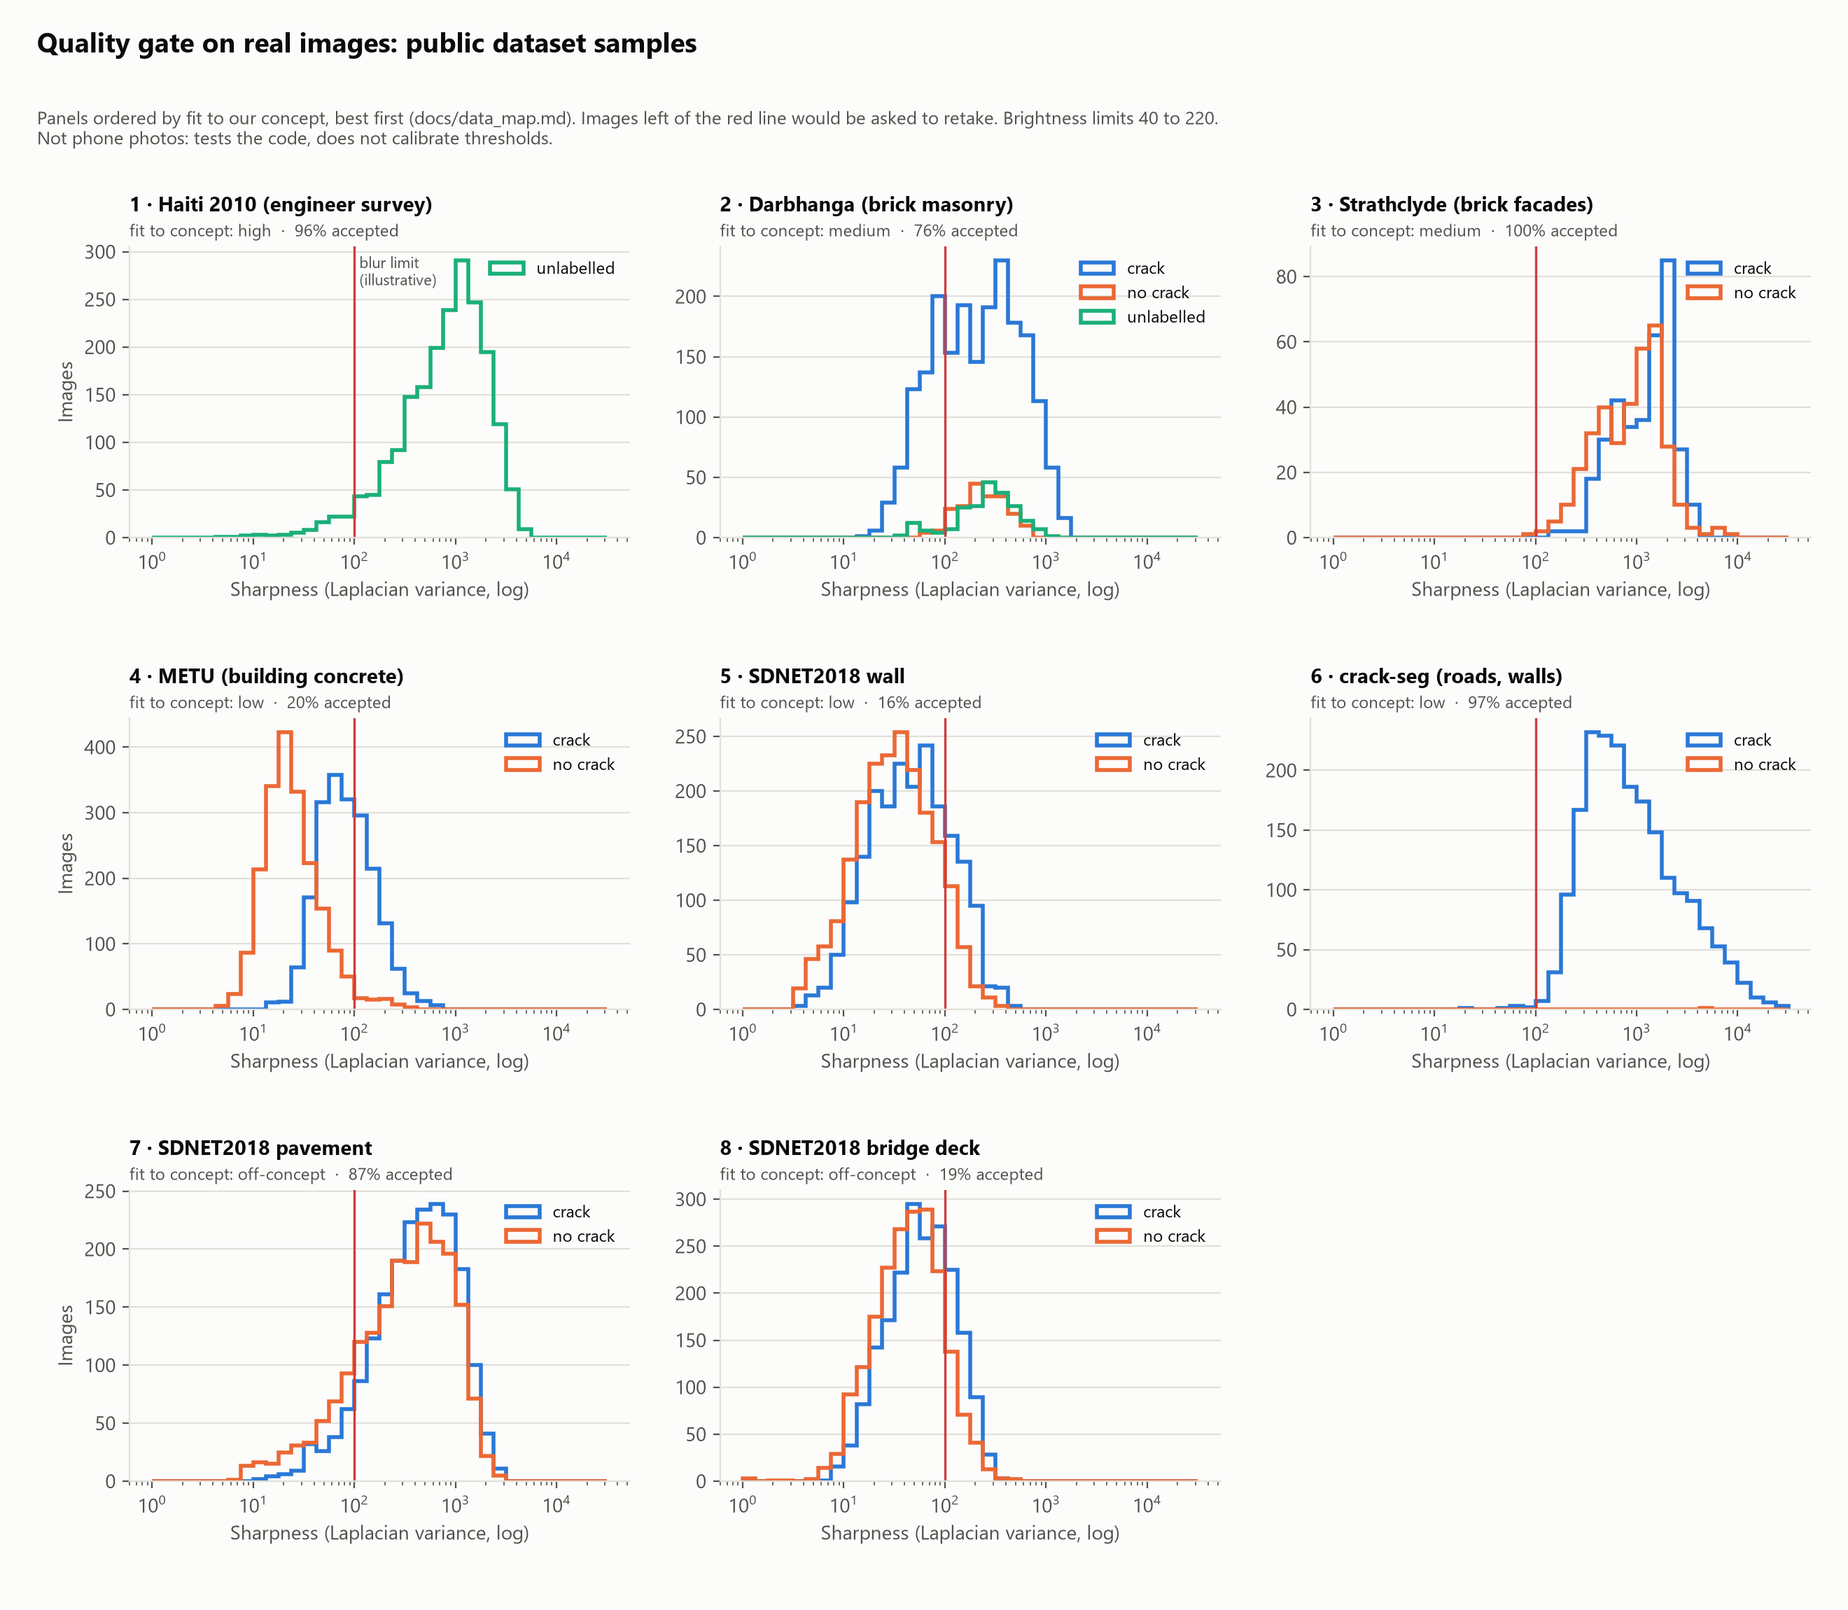
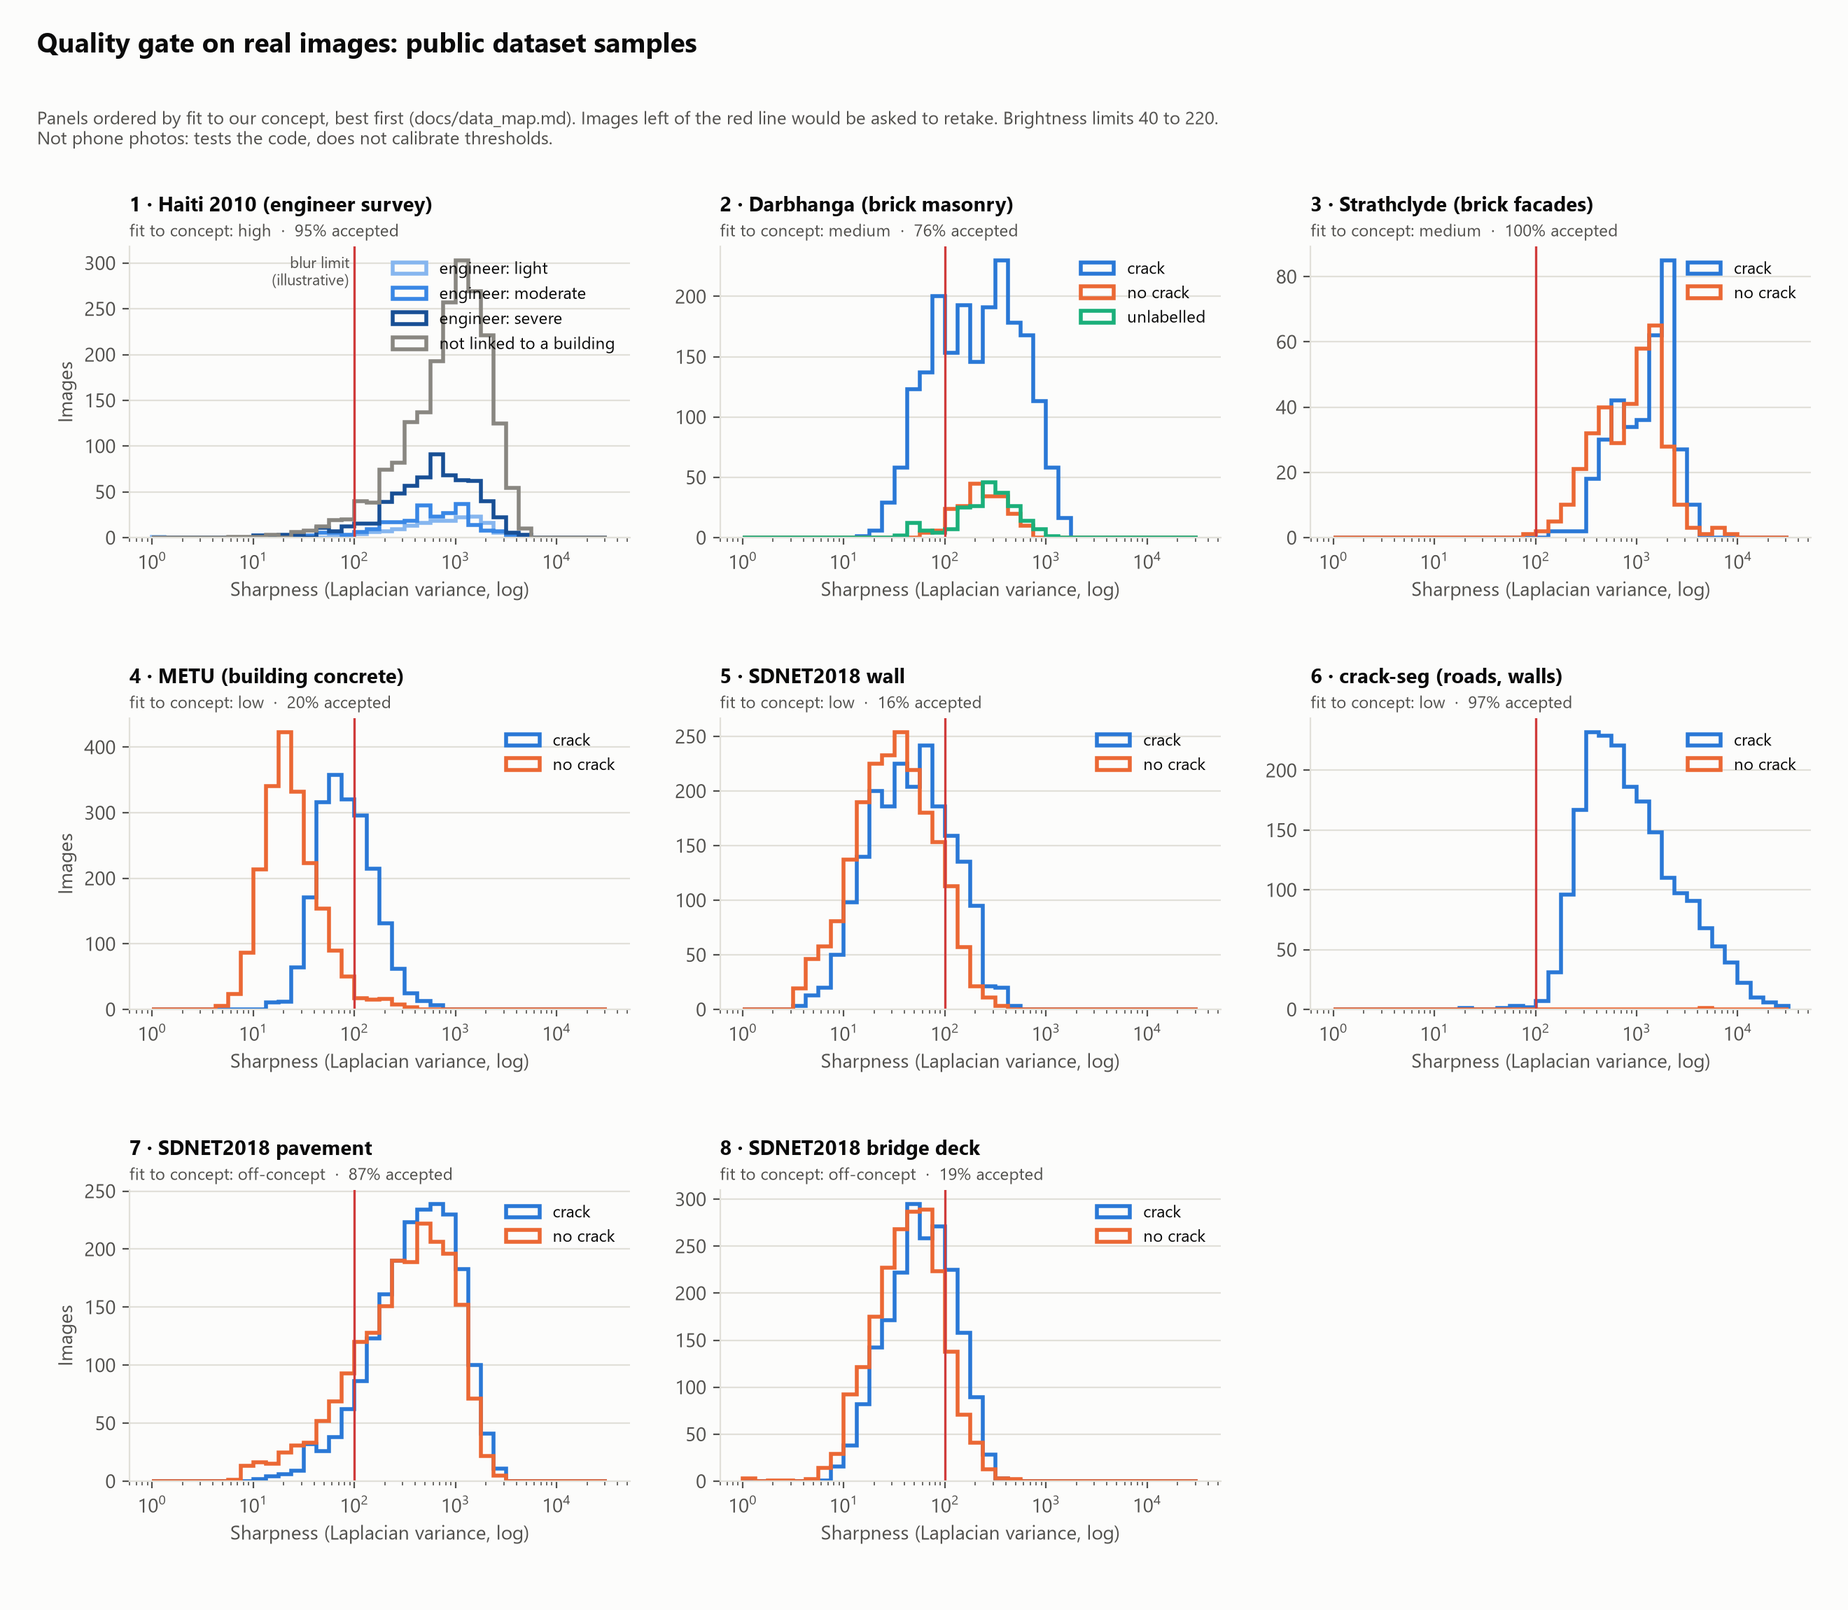
Haiti photos labelled with their building's engineer rating
- Each Haiti photo in a building folder takes that building's rating
  (worse of RC and masonry damage); camera dumps are "not linked"
- Gate accepts light, moderate and severe at the same rate (92 to 94%):
  it does not filter out serious cases
- Unreadable files are recorded as a retake instead of crashing (test)
- Figure 08 legend and label no longer overlap; reports updated

Changed region(s): [[0.1553, 0.1543, 0.3417, 0.3396], [0.0311, 0.1543, 0.0621, 0.247]]

diff --git a/src/experiments/real_data_quality.py b/src/experiments/real_data_quality.py
@@ -5,6 +5,8 @@ Spec: spec/features/quality_gate.md. Usage, from the repository root:
 Recognised layouts (a root with no images is skipped):
 - SDNET2018: <surface>/<C|U><surface letter>/*.jpg (e.g. D/CD, W/UW)
 - METU: Positive/*.jpg (crack) and Negative/*.jpg (no crack)
+- Haiti 2010 database: Photos/<building>/...; each photo takes its building's engineer rating from the
+  database CSV (worse of RC and masonry-wall damage); photos outside a building folder are "not linked"
 - YOLO style (Ultralytics crack-seg, Darbhanga): an "images" folder with a sibling "labels" folder.
   A non-empty label file means crack, a missing or empty one no crack; no labels folder means unlabelled.
 Writes per-image results to data/processed/ (ignored) and a histogram to figures/.
@@ -13,6 +15,7 @@ Writes per-image results to data/processed/ (ignored) and a histogram to figures
 import argparse
 import csv
 import random
+import re
 import sys
 from collections import defaultdict
 from pathlib import Path
@@ -47,10 +50,38 @@ def yolo_label(path: Path) -> str | None:
     return "crack" if label.is_file() and label.read_text().strip() else "no crack"
 
 
+HAITI_CSV = "NEES_Database__The_Haiti_Earthquake_Database.csv"
+DAMAGE_ORDER = ["light", "moderate", "severe"]
+
+
+def _building_key(name: str) -> str:
+    return re.sub(r"\(.*?\)|[^A-Z0-9]", "", name.upper())
+
+
+def haiti_ratings(root: Path) -> dict[str, str]:
+    """Building key -> worse of RC and masonry-wall damage, from the Haiti database CSV."""
+    ratings = {}
+    with (root / HAITI_CSV).open(encoding="latin-1", newline="") as f:
+        for row in csv.DictReader(f):
+            building = (row.get("BuildingNumber") or "").strip()
+            levels = [(row.get(k) or "").strip().lower() for k in ("RC Damage", "MW Damage")]
+            levels = [lv for lv in levels if lv in DAMAGE_ORDER]
+            if building and levels:
+                ratings[_building_key(building)] = max(levels, key=DAMAGE_ORDER.index)
+    return ratings
+
+
 def find_images(root: Path) -> dict[tuple[str, str], list[Path]]:
     """Group images by (dataset group, crack / no crack / unlabelled) from the folder layout."""
     groups = defaultdict(list)
+    ratings = haiti_ratings(root) if (root / HAITI_CSV).is_file() else None
     for path in root.rglob("*.jp*g"):
+        if ratings is not None:
+            parts = path.relative_to(root).parts
+            rating = ratings.get(_building_key(parts[1])) if len(parts) > 2 and parts[0] == "Photos" else None
+            label = f"engineer: {rating}" if rating else "not linked to a building"
+            groups[(DATASET_NAMES.get(root.name, root.name), label)].append(path)
+            continue
         name = path.parent.name.upper()
         if len(name) == 2 and name[0] in "CU" and name[1] in SDNET_SURFACES:
             groups[(f"SDNET2018 {SDNET_SURFACES[name[1]]}", "crack" if name[0] == "C" else "no crack")].append(path)
@@ -67,9 +98,14 @@ def run(roots: list[Path], per_group: int, seed: int = 0) -> list[dict]:
     for root in roots:
         for (group, label), paths in sorted(find_images(root).items()):
             for path in rng.sample(sorted(paths), min(per_group, len(paths))):
-                r = check(to_grey(path), coin_visible=True)  # coin check not implemented; these sets have no coin
-                rows.append({"file": str(path.relative_to(root)), "group": group, "label": label,
-                             "sharpness": round(r.sharpness, 1), "brightness": round(r.brightness, 1),
+                row = {"file": str(path.relative_to(root)), "group": group, "label": label}
+                try:
+                    r = check(to_grey(path), coin_visible=True)  # coin check not implemented; these sets have no coin
+                except (OSError, ValueError):  # a broken file is a retake, not a crash
+                    rows.append({**row, "sharpness": 0.0, "brightness": 0.0, "image_ok": False,
+                                 "failed": "unreadable file"})
+                    continue
+                rows.append({**row, "sharpness": round(r.sharpness, 1), "brightness": round(r.brightness, 1),
                              "image_ok": r.image_ok, "failed": ";".join(r.failed)})
     return rows
 
@@ -111,7 +147,9 @@ def histogram(rows: list[dict], path: Path) -> None:
         ax.set_axis_off()
     bins = np.logspace(0, 4.5, 37)
     for ax, group in zip(axes.flat, groups):
-        for label, colour in (("crack", BLUE), ("no crack", "#eb6834"), ("unlabelled", "#1baf7a")):
+        for label, colour in (("crack", BLUE), ("no crack", "#eb6834"), ("unlabelled", "#1baf7a"),
+                              ("engineer: light", "#86b6ef"), ("engineer: moderate", "#3987e5"),
+                              ("engineer: severe", "#184f95"), ("not linked to a building", "#898781")):
             vals = [max(r["sharpness"], 1) for r in rows if r["group"] == group and r["label"] == label]
             if vals:
                 ax.hist(vals, bins=bins, histtype="step", lw=2, color=colour, label=label)
@@ -127,8 +165,8 @@ def histogram(rows: list[dict], path: Path) -> None:
         ax.grid(axis="y", color=GRID, lw=0.8)
         for s in ("top", "right"):
             ax.spines[s].set_visible(False)
-    axes[0][0].text(MIN_SHARPNESS * 1.12, 0.97, "blur limit\n(illustrative)", transform=axes[0][0].get_xaxis_transform(),
-                    va="top", fontsize=8, color=INK_2)
+    axes[0][0].text(MIN_SHARPNESS / 1.12, 0.97, "blur limit\n(illustrative)", transform=axes[0][0].get_xaxis_transform(),
+                    va="top", ha="right", fontsize=8, color=INK_2)
     for row in axes:
         row[0].set_ylabel("Images")
     fig.suptitle("Quality gate on real images: public dataset samples", x=0.02, ha="left", fontsize=14, weight="bold")

diff --git a/tests/test_real_data_quality.py b/tests/test_real_data_quality.py
@@ -1,7 +1,7 @@
 import numpy as np
 from PIL import Image
 
-from experiments.real_data_quality import find_images, main
+from experiments.real_data_quality import find_images, main, run
 
 rng = np.random.default_rng(0)
 
@@ -63,6 +63,26 @@ def test_find_images_metu(tmp_path):
     _save(root / "Negative", 3)
     assert {k: len(v) for k, v in find_images(root).items()} == {
         ("METU (building concrete)", "crack"): 2, ("METU (building concrete)", "no crack"): 3}
+
+
+def test_find_images_haiti_uses_building_ratings(tmp_path):
+    root = tmp_path / "haiti2010"
+    _save(root / "Photos" / "A001", 2)
+    _save(root / "Photos" / "A003(1)", 1)
+    _save(root / "Photos" / "Team D" / "Camera 1", 3)
+    (root / "NEES_Database__The_Haiti_Earthquake_Database.csv").write_text(
+        "BuildingNumber,RC Damage,MW Damage\nA001,Light,Severe\nA003,Moderate,N/A\n", encoding="latin-1")
+    labels = {k[1]: len(v) for k, v in find_images(root).items()}
+    assert labels == {"engineer: severe": 2, "engineer: moderate": 1, "not linked to a building": 3}
+
+
+def test_unreadable_file_is_rejected_not_a_crash(tmp_path):
+    root = tmp_path / "metu"
+    _save(root / "Positive", 1)
+    (root / "Positive" / "broken.jpg").write_bytes(b"\0" * 64)
+    rows = run([root], per_group=10)
+    broken = [r for r in rows if r["file"].endswith("broken.jpg")]
+    assert broken and broken[0]["image_ok"] is False and broken[0]["failed"] == "unreadable file"
 
 
 def test_main_runs_both_and_skips_empty_roots(tmp_path):

diff --git a/docs/experiments/2026-10-25_quality_gate_first_test.md b/docs/experiments/2026-10-25_quality_gate_first_test.md
@@ -22,7 +22,7 @@ The coin check is not implemented, so every image was treated as if the coin wer
 |---|---|---|---|
 | 1 | Strathclyde brick facades | 100% / 100% | none |
 | 2 | crack-seg (roads, walls) | 97% / - | too bright |
-| 3 | **Haiti 2010 engineer photos** (full-size field photos) | 96% (not split by crack) | blurred |
+| 3 | **Haiti 2010 engineer photos** (full-size field photos) | 95% (light 94%, moderate 92%, severe 94%) | blurred |
 | 4 | SDNET2018 pavement | 91% / 82% | blurred |
 | 5 | Darbhanga brick masonry | 72% / 95% | blurred |
 | 6 | METU building concrete | 37% / 3% | blurred |
@@ -41,7 +41,7 @@ The figure orders the datasets by fit to our concept, best first (`docs/data_map
 
 | # | Dataset | Fit to our concept | Accepted by the quality gate |
 |---|---|---|---|
-| 1 | Haiti 2010 (engineer survey) | high | 96% |
+| 1 | Haiti 2010 (engineer survey) | high | 95% |
 | 2 | Darbhanga (brick masonry) | medium | 76% |
 | 3 | Strathclyde (brick facades) | medium | 100% |
 | 4 | METU (building concrete) | low | 20% |
@@ -58,7 +58,10 @@ The figure orders the datasets by fit to our concept, best first (`docs/data_map
 | Darbhanga | crack | 2,000 | 73% | 219.6 | 123.9 | blurred |
 | Darbhanga | no crack | 203 | 95% | 233.9 | 149.9 | blurred |
 | Darbhanga | unlabelled (test) | 213 | 89% | 286.6 | 121.7 | blurred |
-| Haiti 2010 engineer photos | unlabelled | 2,000 | 96% | 896.0 | 121.4 | blurred |
+| Haiti 2010, building rated light | engineer: light | 167 | 94% | 792.6 | 118.8 | blurred |
+| Haiti 2010, building rated moderate | engineer: moderate | 241 | 92% | 554.9 | 126.1 | blurred |
+| Haiti 2010, building rated severe | engineer: severe | 633 | 94% | 633.1 | 123.8 | blurred |
+| Haiti 2010, photo not linked to a building | not linked | 2,000 | 96% | 973.1 | 120.1 | blurred |
 | Strathclyde brick facades | crack | 350 | 100% | 1,418.7 | 135.6 | - |
 | Strathclyde brick facades | no crack | 350 | 100% | 964.6 | 151.4 | - |
 | METU building concrete | crack | 2,000 | 39% | 82.0 | 165.0 | blurred |
@@ -77,7 +80,7 @@ First run on every crack-seg image (4,029): 97% pass, 118 too bright, 14 blurred
 2. **Bug found and fixed: sharpness depended on resolution.** Before the fix the gate rejected 63% of all Darbhanga images as blurred. Scaling the same images to 416 px dropped the blurred share from 67% to 11% (sample of 107 images). A phone photo at about 4000 px would almost always have failed. The gate now measures on a copy scaled to 512 px (`spec/decisions.md` D8). This is why a test on real data was worth doing before the pilot.
 3. **Cracked brick images score lower on sharpness than uncracked ones** (73% vs 95% pass). Possible reasons: close-ups of cracks, smoother surfaces, or real blur. Not tested; we need to look at the rejected images before changing anything.
 4. **Second problem found: the blur measure confuses smooth surfaces with blur.** The gate rejects 75 to 89% of SDNET2018 wall and deck tiles, but only 9 to 16% of pavement. These are 256 px tiles, so it is not the resolution bug. A visual check of 8 rejected cracked-wall tiles: most are in focus, smooth low-contrast concrete with hairline cracks; a few look slightly soft. Laplacian variance measures texture as much as focus. On real walls this means **hairline cracks on smooth plaster or concrete would be sent back for retake again and again**. That is safe (a retake is never a Low) but makes the tool unusable for exactly the walls we care about. **Confirmed on building walls:** on METU (concrete surfaces of campus buildings, the closest of these sets to our concept, D14) the gate rejects 61% of cracked and 97% of uncracked tiles. Textured brick passes (Strathclyde brick facades: 100%), so the problem is specific to smooth surfaces: plaster and concrete. Not fixed yet: we need photos with known blur to choose a better measure (`spec/decisions.md` D12).
-5. **Real field photos pass.** The Haiti photos are full-size camera photos of damaged buildings taken by engineers; 96% pass. This is the first test on photos like the ones the tool will receive, and it shows the 512 px working size (D8) works on them. They are not phone photos and have no coin, so the thresholds are still not calibrated.
+5. **Real field photos pass.** The Haiti photos are full-size camera photos of damaged buildings taken by engineers; 95% pass. Each photo in a building folder carries that building's engineer rating (1,041 photos; the other photos are camera dumps sorted by photographer and date, whose photo log was lost in the broken download). The gate accepts photos of lightly, moderately and severely damaged buildings at the same rate (92 to 94%), so it does not filter out the serious cases. One photo in the original archive is all zeros; the gate records it as "unreadable file" (a retake) instead of crashing. This is the first test on photos like the ones the tool will receive, and it shows the 512 px working size (D8) works on them. They are not phone photos and have no coin, so the thresholds are still not calibrated.
 6. **"Too bright" is the main failure on crack-seg** (118 of 4,029). Many images are pale concrete or pavement; the 220 limit may be too strict for light walls. To check on the pilot phone photos.
 
 ## Limits

diff --git a/docs/data_map.md b/docs/data_map.md
@@ -23,7 +23,7 @@ Raw data is never committed; it lives in `data/` (git-ignored).
 | Low | crack-seg [33], CrackSeg9k [25] | Mostly roads and pavement; generic pre-training for crack pixels only |
 | **Off-concept** | CODEBRIM [28], SDNET2018 decks and pavement [22] | Bridges and roads, not buildings |
 
-**Closest public data:** the post-earthquake building surveys from Haiti and Nepal [41][42]. Haiti on our disk: 183 buildings rated by engineers (reinforced concrete: 74 light, 27 moderate, 70 severe; masonry walls: 47 light, 25 moderate, 90 severe) and 4,450 photos, 96% of which pass our quality gate. These surveys show real buildings in dense, poor neighbourhoods, photographed and rated by engineers. Their damage classes map onto our levels: light (no damage or hairline cracks), moderate (wider cracks or spalling), severe (see-through cracks, failure). Limits: one rating per building, not per crack; damage after an earthquake, not slow deterioration; no scale reference.
+**Closest public data:** the post-earthquake building surveys from Haiti and Nepal [41][42]. Haiti on our disk: 183 buildings rated by engineers (reinforced concrete: 74 light, 27 moderate, 70 severe; masonry walls: 47 light, 25 moderate, 90 severe) and 4,450 photos, 95% of which pass our quality gate (1,041 of them linked to their building's rating; light, moderate and severe pass at the same rate). These surveys show real buildings in dense, poor neighbourhoods, photographed and rated by engineers. Their damage classes map onto our levels: light (no damage or hairline cracks), moderate (wider cracks or spalling), severe (see-through cracks, failure). Limits: one rating per building, not per crack; damage after an earthquake, not slow deterioration; no scale reference.
 
 **Still missing:** per-crack photos with a scale from informal or self-built housing before any disaster. Only our own collection with the partners can give that.
 
@@ -33,7 +33,7 @@ Raw data is never committed; it lives in `data/` (git-ignored).
 
 | # | Dataset | Fit to our concept | Accepted by the quality gate |
 |---|---|---|---|
-| 1 | Haiti 2010 (engineer survey) | high | 96% |
+| 1 | Haiti 2010 (engineer survey) | high | 95% |
 | 2 | Darbhanga (brick masonry) | medium | 76% |
 | 3 | Strathclyde (brick facades) | medium | 100% |
 | 4 | METU (building concrete) | low | 20% |
@@ -146,7 +146,7 @@ What is downloaded on Jerome's PC as of 25 Oct 2026. Anyone else downloads from 
 | `sdnet2018/` | SDNET2018 [22] | 629 MB | 56,092 | Downloaded in a browser; file sizes checked |
 | `strathclyde-brickwork/` | Brickwork cracks [44] | 19 MB | 700 | MD5 matches Zenodo |
 | `crackseg9k/` | CrackSeg9k Vol1 [25] | 1.5 GB | not extracted | MD5 matches Dataverse |
-| `haiti2010/` | Haiti Earthquake Database [41] | 12 GB extracted (broken zip deleted) | 4,450 photos; spreadsheet of 183 buildings | Partial zip, every recovered file CRC-checked |
+| `haiti2010/` | Haiti Earthquake Database [41] | 12 GB extracted (broken zip deleted) | 4,450 photos (1,041 linked to a building rating); spreadsheet of 183 buildings | Partial zip, every recovered file CRC-checked |
 | `nepal2015/` | Nepal 2015 surveys [42] | - | not downloaded | Nepal folder to download in a browser |
 
 Run the real-data test on all of them: `py src/experiments/real_data_quality.py data/raw/crack-seg data/raw/darbhanga data/raw/metu data/raw/sdnet2018 data/raw/strathclyde-brickwork --per-group 2000`.
